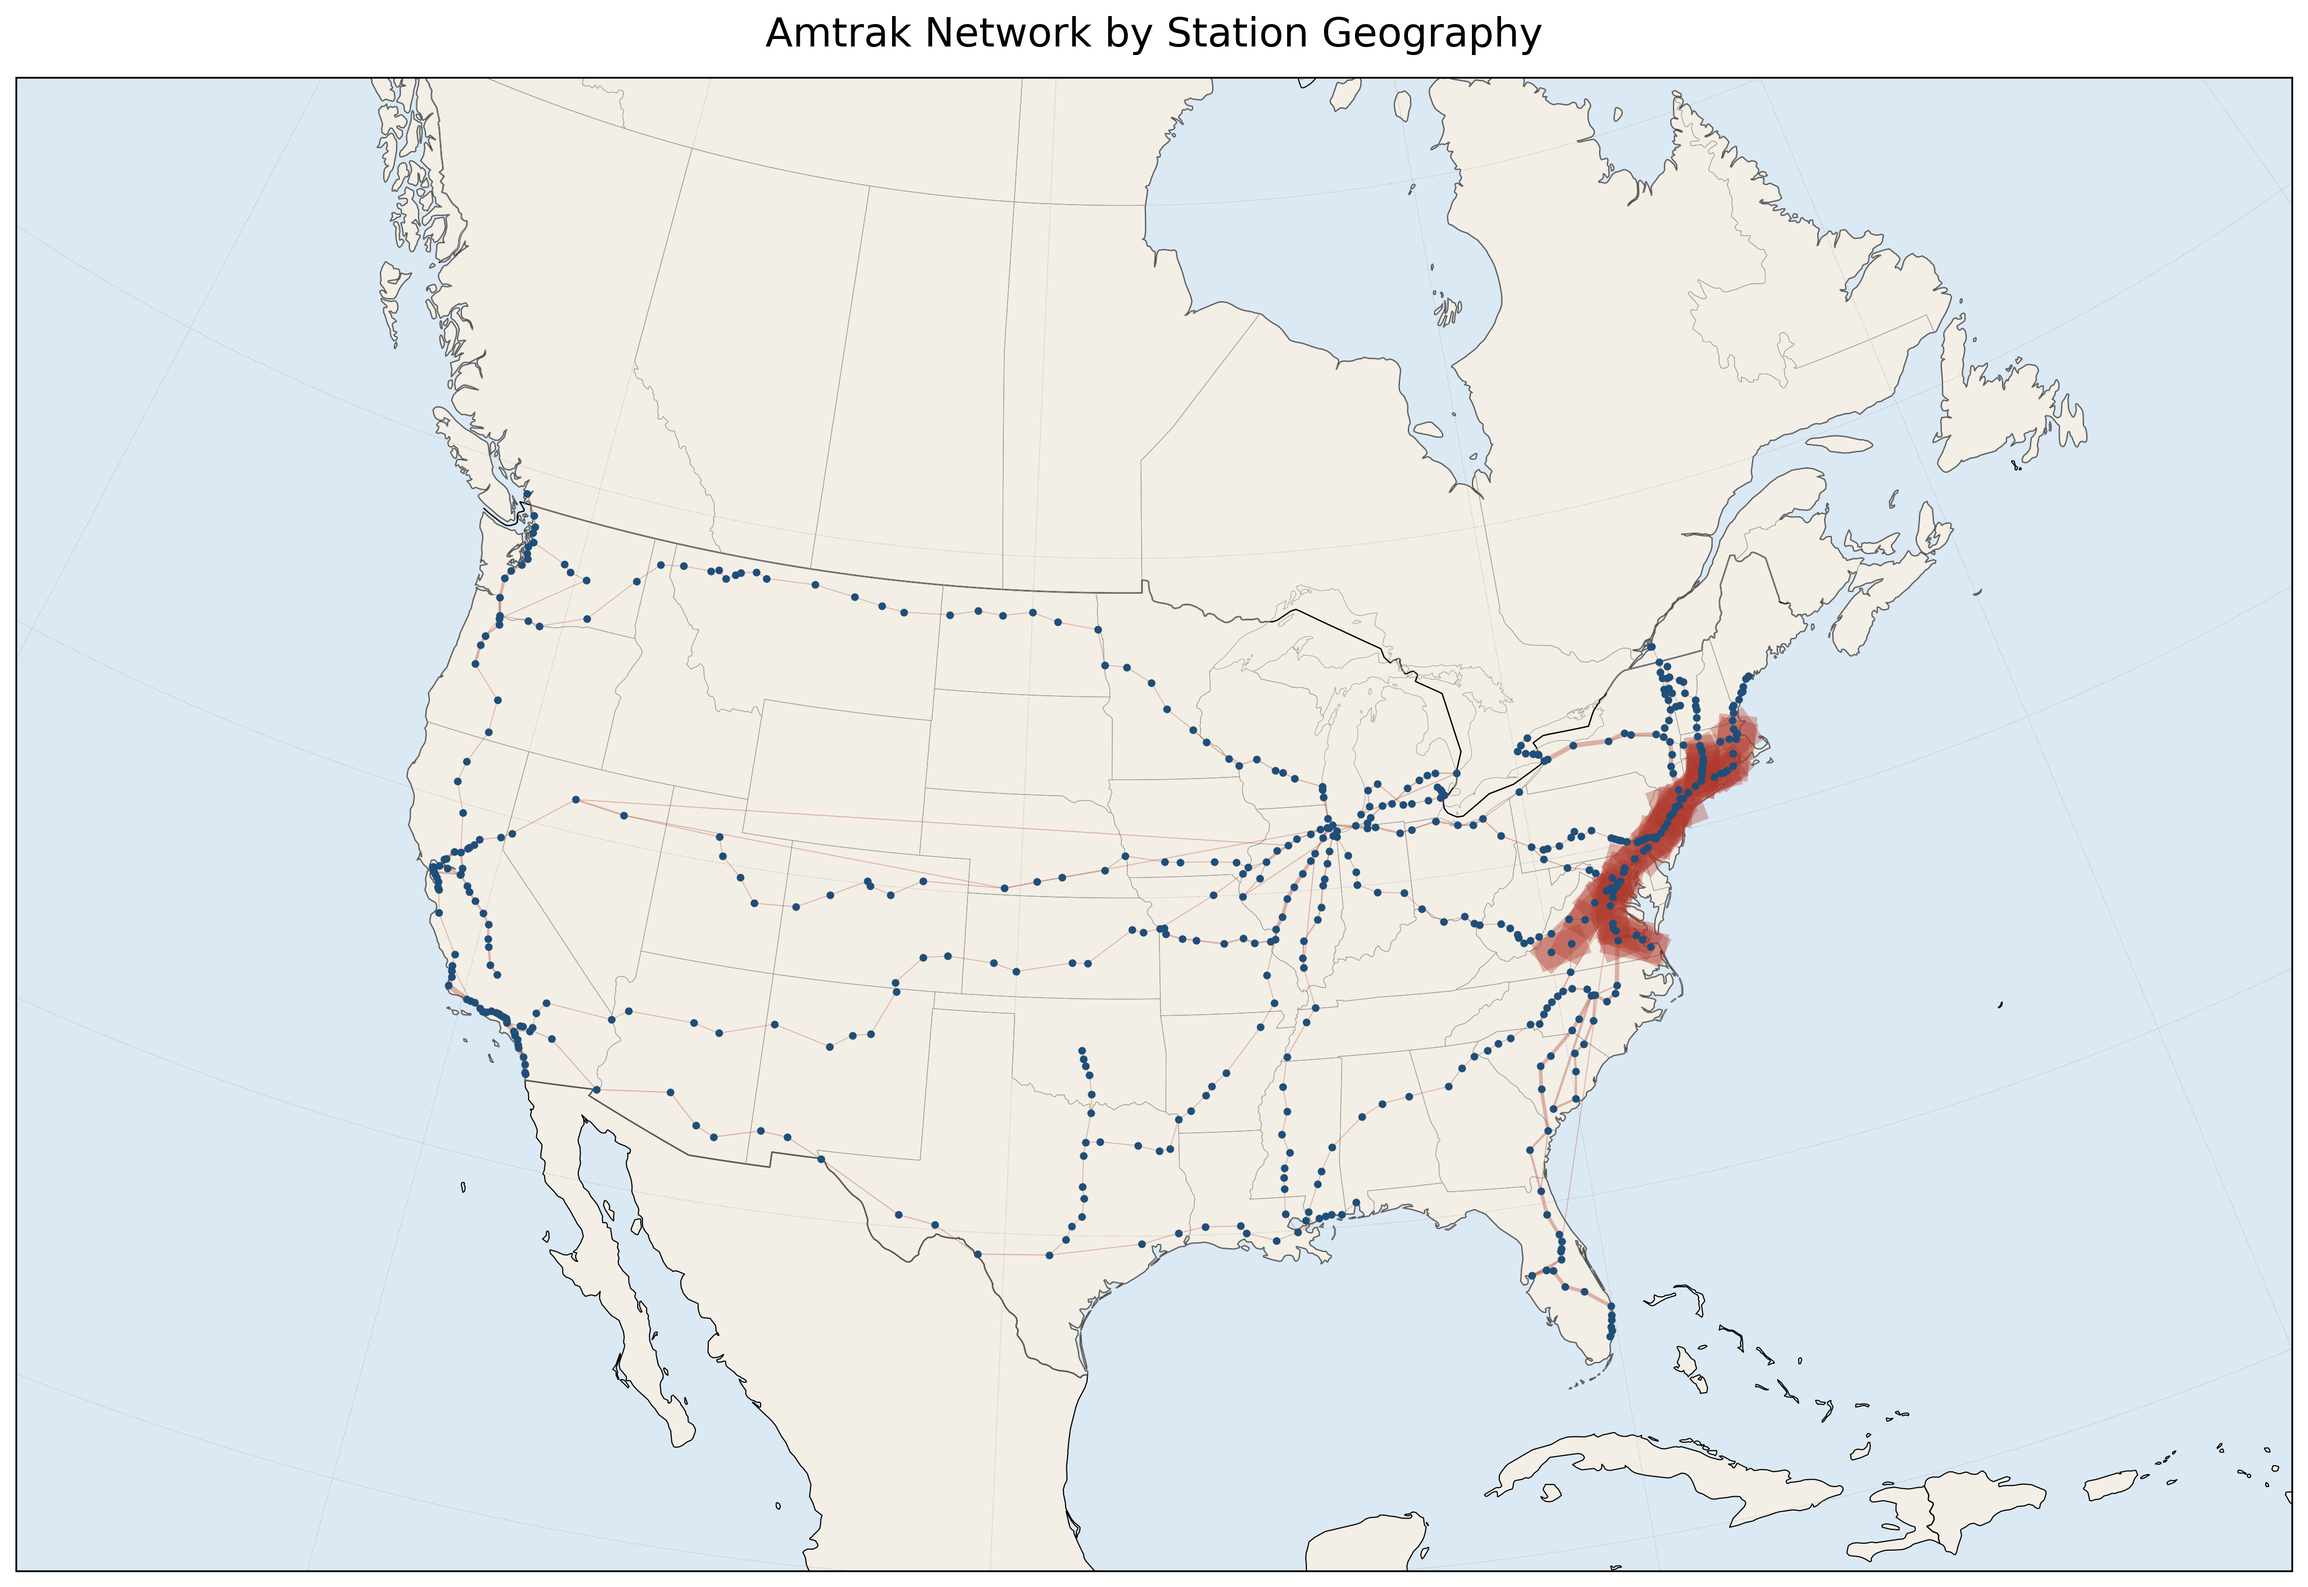
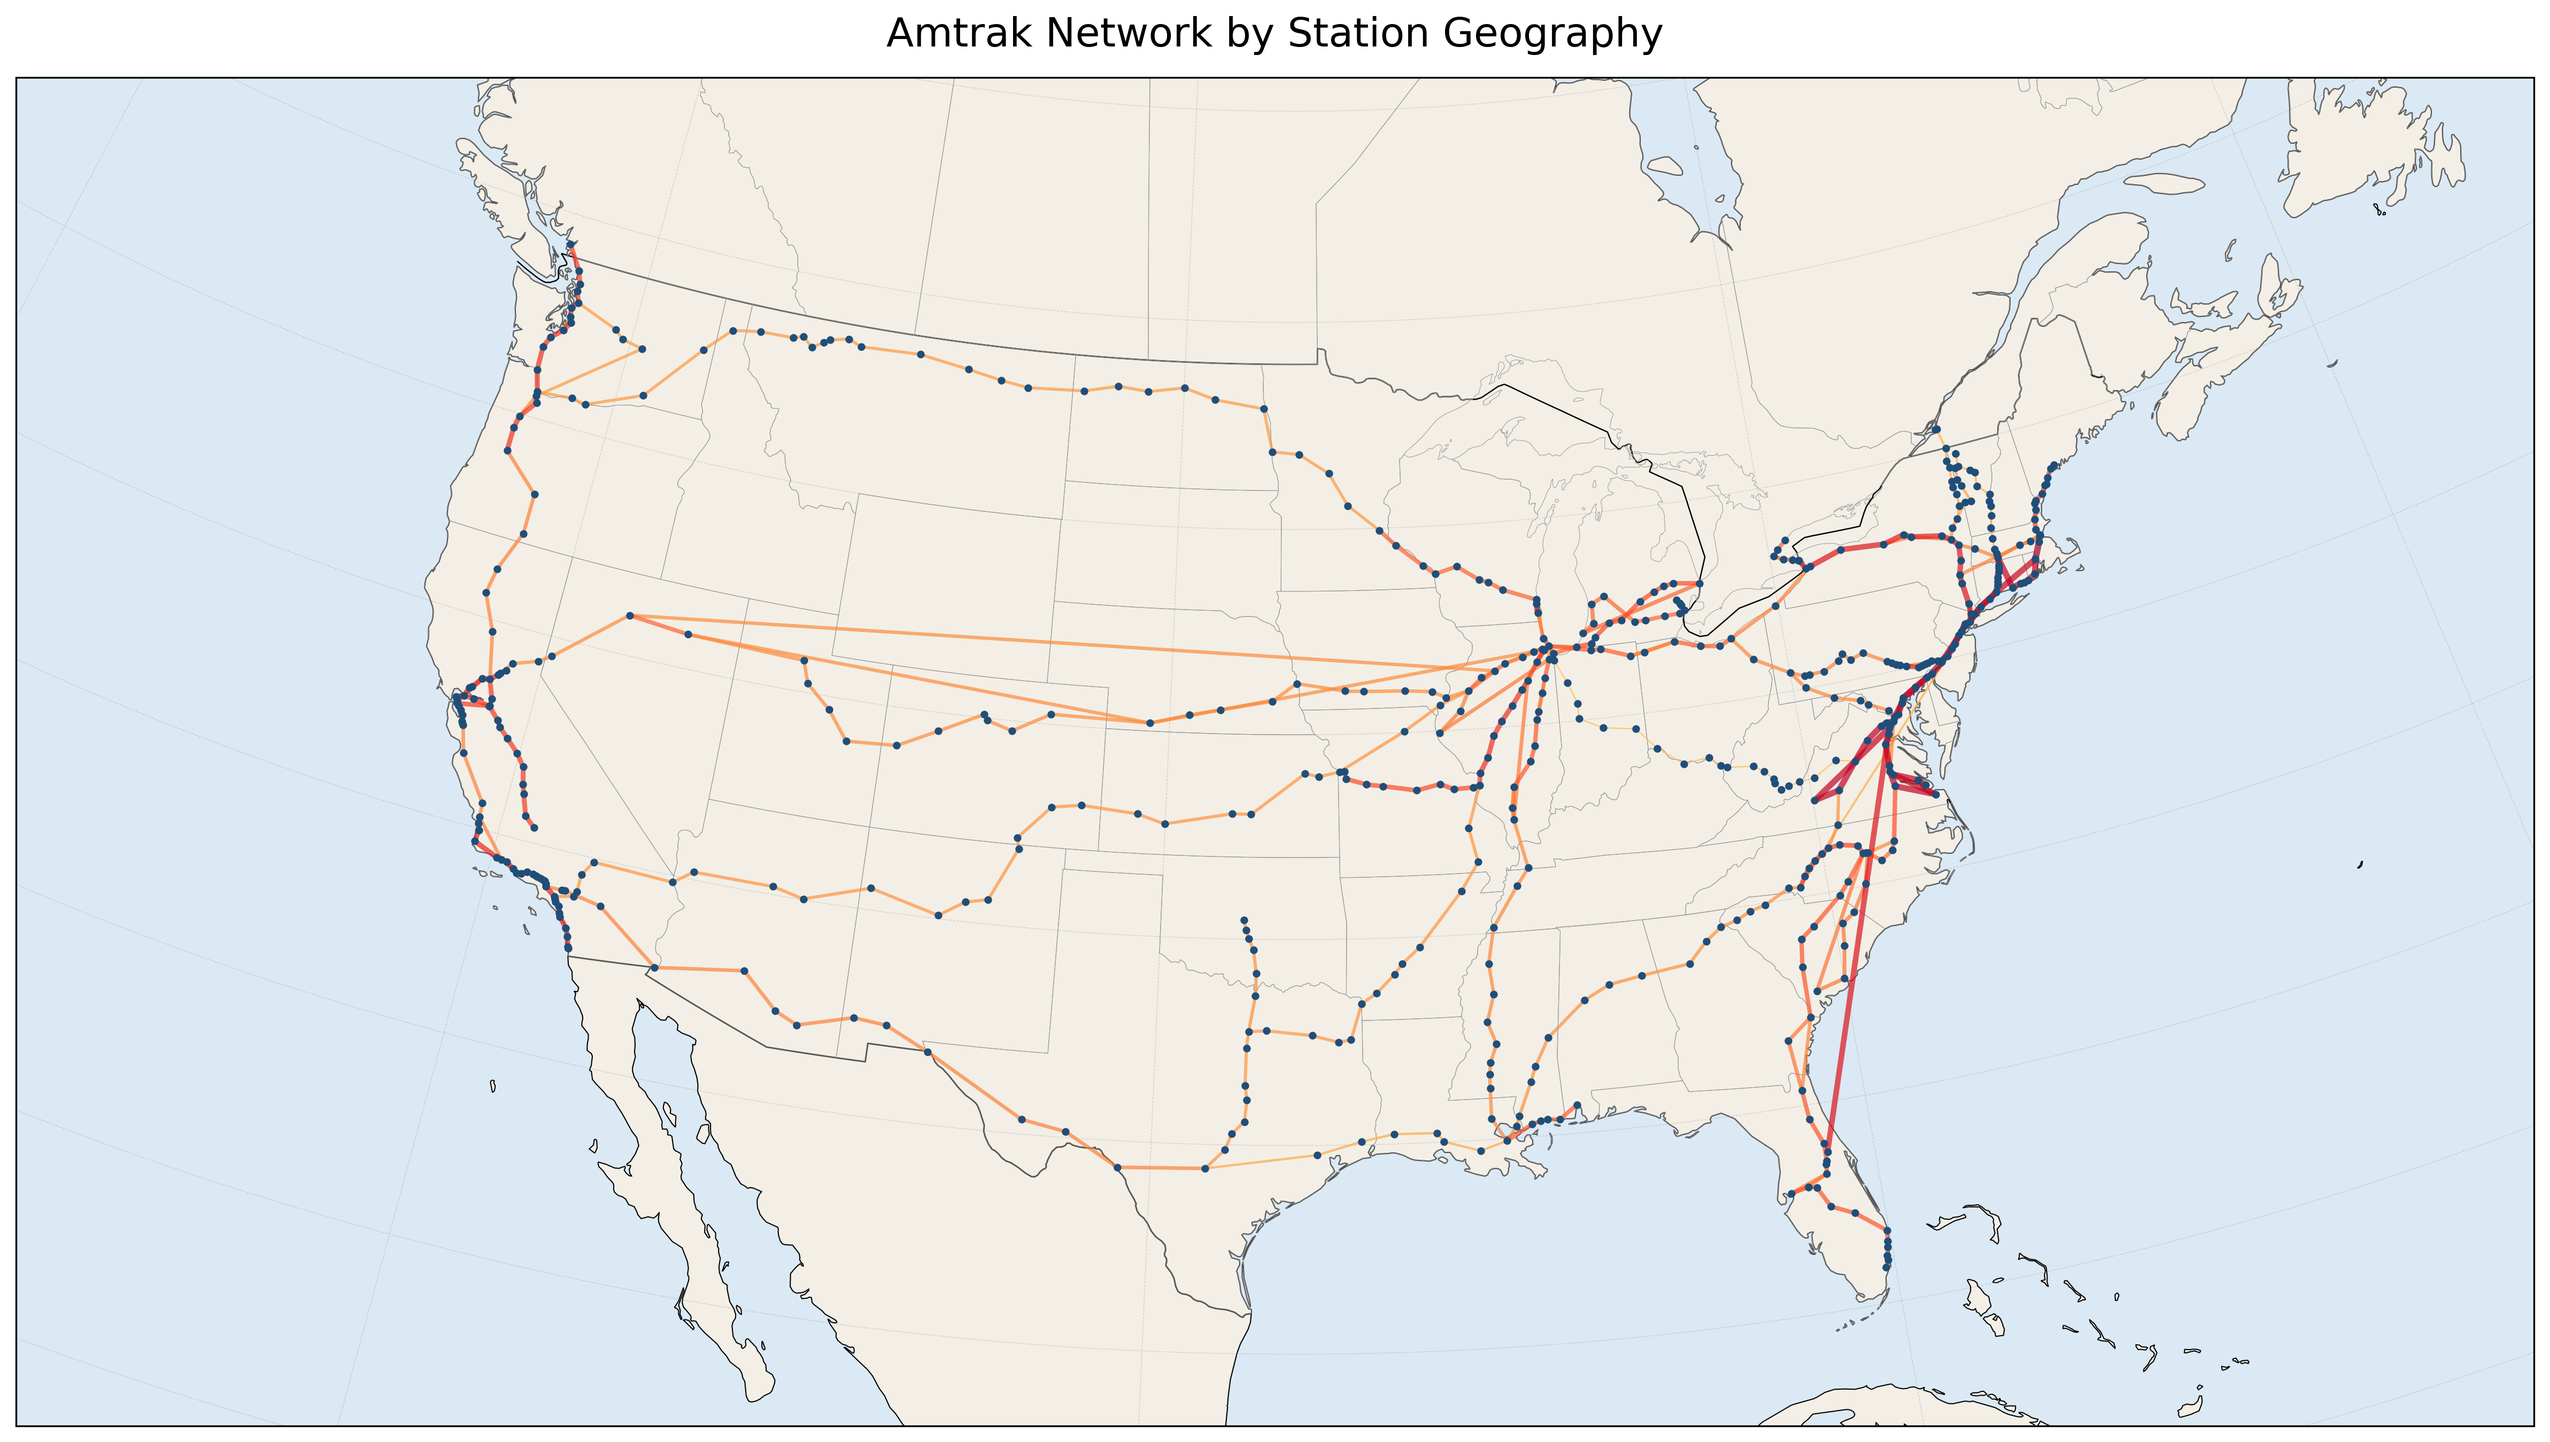
made more pretty

diff --git a/network.py b/network.py
@@ -1,23 +1,23 @@
 import pandas as pd
 import re
 import networkx as nx
-import matplotlib.pyplot as plt
-import cartopy.crs as ccrs
-import cartopy.feature as cfeature
 
-routes = pd.read_excel("route-data.xlsx")["name"]
-stations = pd.read_excel("station-data.xlsx")
-station_coords = (
-    stations.dropna(subset=["Code", "lon", "lat"])
-    .drop_duplicates(subset=["Code"])
-    .set_index("Code")[["lon", "lat"]]
-    .to_dict("index")
-)
 
-with open("route-stop-data.txt", "r") as route_stop_txt:
-    txt = route_stop_txt.read()
+def load_station_coords(path="station-data.xlsx"):
+    stations = pd.read_excel(path)
+    return (
+        stations.dropna(subset=["Code", "lon", "lat"])
+        .drop_duplicates(subset=["Code"])
+        .set_index("Code")[["lon", "lat"]]
+        .to_dict("index")
+    )
 
-    route_stop_dict = dict([(route, []) for route in routes])
+
+def load_route_stops(routes, path="route-stop-data.txt"):
+    with open(path, "r") as route_stop_txt:
+        txt = route_stop_txt.read()
+
+    route_stop_dict = {route: [] for route in routes}
 
     for route in routes:
         route_pattern = re.escape(route)
@@ -30,21 +30,24 @@ with open("route-stop-data.txt", "r") as route_stop_txt:
             .group(0)
             .split("\n")
         )
-        stop_codes = [
+        route_stop_dict[route] = [
             re.search(r"\(.*?\)", stop_txt, flags=re.DOTALL)
             .group(0)
             .replace("(", "")
             .replace(")", "")
             for stop_txt in stop_txts[1:]
         ]
-        route_stop_dict[route] = stop_codes
 
-with open("ridership-data.txt", "r") as ridership_txt:
-    txt = ridership_txt.read().split("\n")
+    return route_stop_dict
 
-    route_weight_dict = dict([(route, []) for route in routes])
 
-    for row in txt:
+def load_route_weights(routes, path="ridership-data.txt"):
+    with open(path, "r") as ridership_txt:
+        rows = ridership_txt.read().split("\n")
+
+    route_weight_dict = {route: [] for route in routes}
+
+    for row in rows:
         match = re.match(
             r"^(.*?)\s+((?:\(?[\d,.-]+\)?|-)(?:\s+(?:\(?[\d,.-]+\)?|-))*)$",
             row.strip(),
@@ -54,89 +57,78 @@ with open("ridership-data.txt", "r") as ridership_txt:
 
         route_name = match.group(1)
         metrics = match.group(2).split()
-
         route_weight_dict[route_name] = float(metrics[4].replace(",", ""))
 
+    return route_weight_dict
 
-G = nx.Graph()
 
-route_graphs = dict([(route, None) for route in routes])
-
-for route in routes:
-    stops = route_stop_dict[route]
-    weight = route_weight_dict[route]
-    route_graph = nx.Graph()
-
-    e = []
-    for i in range(len(stops) - 1):
-        e.append((stops[i], stops[i + 1], weight))
-
-    route_graph.add_weighted_edges_from(e)
-    route_graphs[route] = route_graph
-
-    for u, v, weight in e:
-        if G.has_edge(u, v):
-            G[u][v]["weight"] += weight
+def annotate_graph_with_coords(graph, station_coords):
+    missing_nodes = []
+    for node in graph.nodes:
+        coord = station_coords.get(node)
+        if coord:
+            graph.nodes[node]["lon"] = float(coord["lon"])
+            graph.nodes[node]["lat"] = float(coord["lat"])
         else:
-            G.add_edge(u, v, weight=weight)
+            missing_nodes.append(node)
+    return missing_nodes
 
-for node in G.nodes:
-    coord = station_coords.get(node)
-    if coord:
-        G.nodes[node]["lon"] = float(coord["lon"])
-        G.nodes[node]["lat"] = float(coord["lat"])
 
-pos = {
-    node: (attrs["lon"], attrs["lat"])
-    for node, attrs in G.nodes(data=True)
-    if "lon" in attrs and "lat" in attrs
-}
+def build_network():
+    routes = pd.read_excel("route-data.xlsx")["name"].tolist()
+    station_coords = load_station_coords()
+    route_stop_dict = load_route_stops(routes)
+    route_weight_dict = load_route_weights(routes)
 
-missing_nodes = sorted(set(G.nodes) - set(pos))
-if missing_nodes:
-    print("Missing coordinates for:", ", ".join(missing_nodes))
+    graph = nx.Graph()
 
-fig = plt.figure(figsize=(16, 10))
-ax = plt.axes(projection=ccrs.LambertConformal())
-ax.set_extent([-130, -60, 20, 60], crs=ccrs.PlateCarree())
-ax.add_feature(cfeature.LAND, facecolor="#f3efe6")
-ax.add_feature(cfeature.OCEAN, facecolor="#dbe9f4")
-ax.add_feature(cfeature.COASTLINE, linewidth=0.5)
-ax.add_feature(cfeature.BORDERS, linewidth=0.6)
-ax.add_feature(cfeature.STATES, linewidth=0.25, edgecolor="#999999")
-ax.gridlines(
-    draw_labels=False,
-    linewidth=0.3,
-    color="#999999",
-    alpha=0.4,
-    linestyle="--",
-)
+    for route in routes:
+        stops = route_stop_dict[route]
+        weight = route_weight_dict[route] / len(stops)
+        edges = []
 
-if pos:
-    for u, v, attrs in G.edges(data=True):
-        if u in pos and v in pos:
-            ax.plot(
-                [pos[u][0], pos[v][0]],
-                [pos[u][1], pos[v][1]],
-                color="#b03a2e",
-                alpha=0.35,
-                linewidth=max(attrs["weight"] / 400, 0.4),
-                transform=ccrs.PlateCarree(),
+        for i in range(len(stops) - 1):
+            edges.append((stops[i], stops[i + 1], weight))
+
+        for u, v, edge_weight in edges:
+            if graph.has_edge(u, v):
+                graph[u][v]["weight"] += edge_weight
+            else:
+                graph.add_edge(u, v, weight=edge_weight)
+
+    route_graphs = {}
+    for route in routes:
+        stops = route_stop_dict[route]
+        edges = []
+
+        for i in range(len(stops) - 1):
+            edges.append(
+                (stops[i], stops[i + 1], graph[stops[i]][stops[i + 1]]["weight"])
             )
 
-    xs = [coords[0] for coords in pos.values()]
-    ys = [coords[1] for coords in pos.values()]
-    ax.scatter(
-        xs,
-        ys,
-        s=12,
-        color="#1f4e79",
-        linewidths=0,
-        transform=ccrs.PlateCarree(),
-        zorder=3,
-    )
+        G = nx.Graph()
+        G.add_weighted_edges_from(edges)
 
-ax.set_title("Amtrak Network by Station Geography", fontsize=18, pad=14)
-plt.tight_layout()
-plt.savefig("network-map.png", dpi=300, bbox_inches="tight")
-plt.show()
+        route_graphs[route] = G
+
+    missing_nodes = annotate_graph_with_coords(graph, station_coords)
+    route_missing_nodes = {}
+
+    for route, route_graph in route_graphs.items():
+        route_missing_nodes[route] = annotate_graph_with_coords(
+            route_graph, station_coords
+        )
+
+    return graph, route_graphs, missing_nodes, route_missing_nodes
+
+
+G, route_graphs, missing_nodes, route_missing_nodes = build_network()
+
+
+if __name__ == "__main__":
+    from display import display_graph
+
+    if missing_nodes:
+        print("Missing coordinates for:", ", ".join(sorted(missing_nodes)))
+
+    display_graph(G, output_path="network-map.png")

diff --git a/display.py b/display.py
@@ -1,0 +1,124 @@
+import matplotlib.pyplot as plt
+from matplotlib import cm, colors
+import cartopy.crs as ccrs
+import cartopy.feature as cfeature
+
+
+def display_graph(
+    graph,
+    output_path=None,
+    title="Amtrak Network by Station Geography",
+    extent=None,
+    projection=None,
+    node_size=12,
+    node_color="#1f4e79",
+    edge_alpha=0.7,
+    min_edge_width=0.6,
+    max_edge_width=3.0,
+    show=True,
+):
+    projection = projection or ccrs.LambertConformal()
+    pos = {
+        node: (attrs["lon"], attrs["lat"])
+        for node, attrs in graph.nodes(data=True)
+        if "lon" in attrs and "lat" in attrs
+    }
+
+    missing_nodes = sorted(set(graph.nodes) - set(pos))
+    if missing_nodes:
+        print("Missing coordinates for:", ", ".join(missing_nodes))
+
+    if extent is None:
+        if pos:
+            xs = [coords[0] for coords in pos.values()]
+            ys = [coords[1] for coords in pos.values()]
+            min_lon, max_lon = min(xs), max(xs)
+            min_lat, max_lat = min(ys), max(ys)
+
+            lon_margin = max((max_lon - min_lon) * 0.12, 2.0)
+            lat_margin = max((max_lat - min_lat) * 0.12, 1.5)
+            extent = (
+                min_lon - lon_margin,
+                max_lon + lon_margin,
+                min_lat - lat_margin,
+                max_lat + lat_margin,
+            )
+        else:
+            extent = (-130, -60, 20, 60)
+
+    fig = plt.figure(figsize=(16, 10))
+    ax = plt.axes(projection=projection)
+    ax.set_extent(extent, crs=ccrs.PlateCarree())
+    ax.add_feature(cfeature.LAND, facecolor="#f3efe6")
+    ax.add_feature(cfeature.OCEAN, facecolor="#dbe9f4")
+    ax.add_feature(cfeature.COASTLINE, linewidth=0.5)
+    ax.add_feature(cfeature.BORDERS, linewidth=0.6)
+    ax.add_feature(cfeature.STATES, linewidth=0.25, edgecolor="#999999")
+    ax.gridlines(
+        draw_labels=False,
+        linewidth=0.3,
+        color="#999999",
+        alpha=0.4,
+        linestyle="--",
+    )
+
+    edge_data = [
+        (u, v, attrs.get("weight", 1))
+        for u, v, attrs in graph.edges(data=True)
+        if u in pos and v in pos
+    ]
+    edge_weights = [weight for _, _, weight in edge_data]
+    if edge_weights:
+        weight_norm = colors.LogNorm(
+            vmin=max(min(edge_weights), 1e-6), vmax=max(edge_weights)
+        )
+        edge_cmap = cm.get_cmap("YlOrRd")
+    else:
+        weight_norm = None
+        edge_cmap = None
+
+    for u, v, weight in sorted(edge_data, key=lambda edge: edge[2]):
+        if weight_norm is not None:
+            normalized = weight_norm(weight)
+            color = edge_cmap(0.35 + 0.6 * normalized)
+            width = min_edge_width + (max_edge_width - min_edge_width) * (
+                normalized ** 0.7
+            )
+        else:
+            color = "#b03a2e"
+            width = min_edge_width
+
+        ax.plot(
+            [pos[u][0], pos[v][0]],
+            [pos[u][1], pos[v][1]],
+            color=color,
+            alpha=edge_alpha,
+            linewidth=width,
+            solid_capstyle="round",
+            transform=ccrs.PlateCarree(),
+            zorder=2,
+        )
+
+    if pos:
+        xs = [coords[0] for coords in pos.values()]
+        ys = [coords[1] for coords in pos.values()]
+        ax.scatter(
+            xs,
+            ys,
+            s=node_size,
+            color=node_color,
+            linewidths=0,
+            transform=ccrs.PlateCarree(),
+            zorder=3,
+        )
+
+    ax.set_title(title, fontsize=18, pad=14)
+    plt.tight_layout()
+
+    if output_path:
+        plt.savefig(output_path, dpi=300, bbox_inches="tight")
+
+    if show:
+        plt.show()
+
+    return fig, ax
